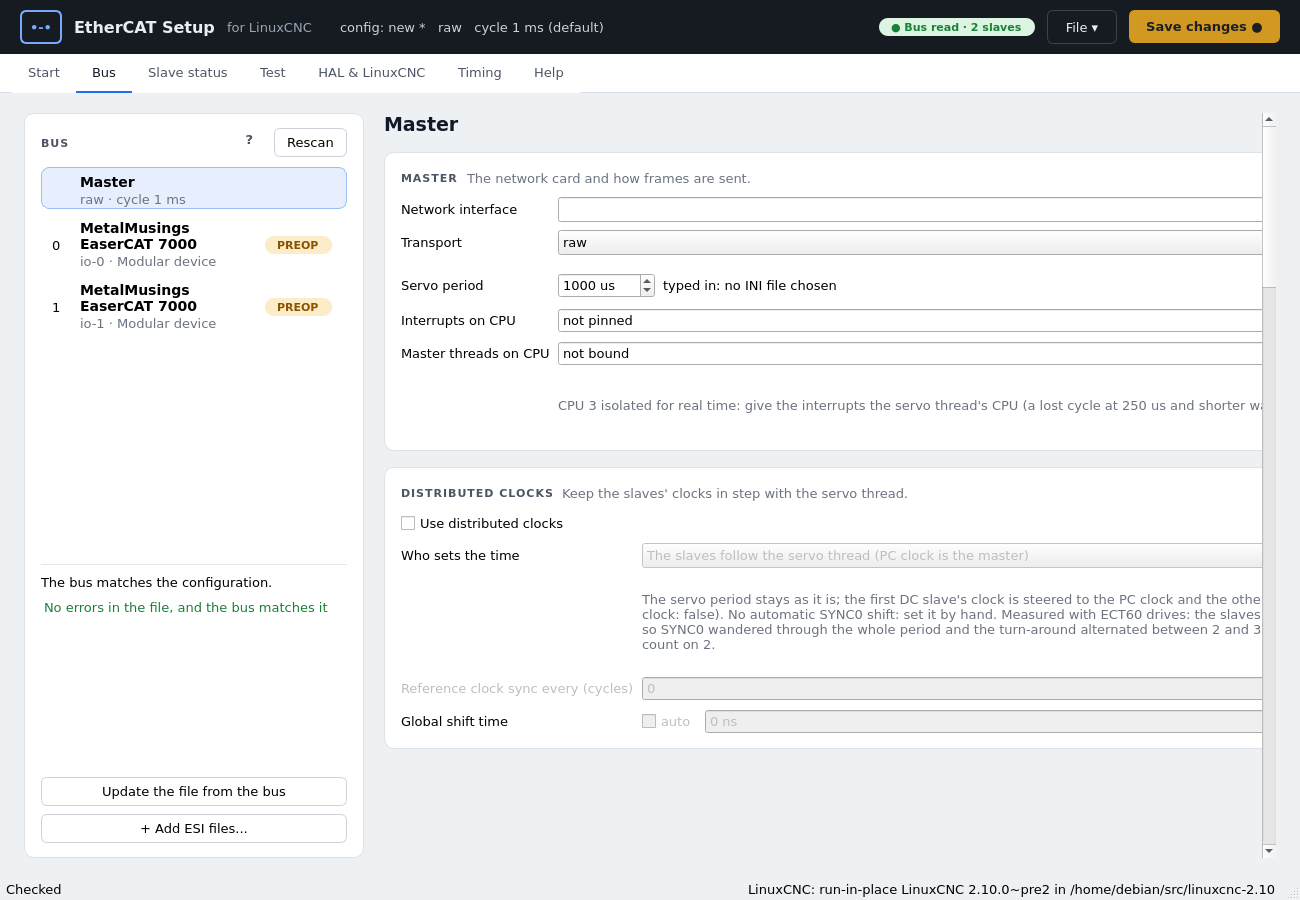
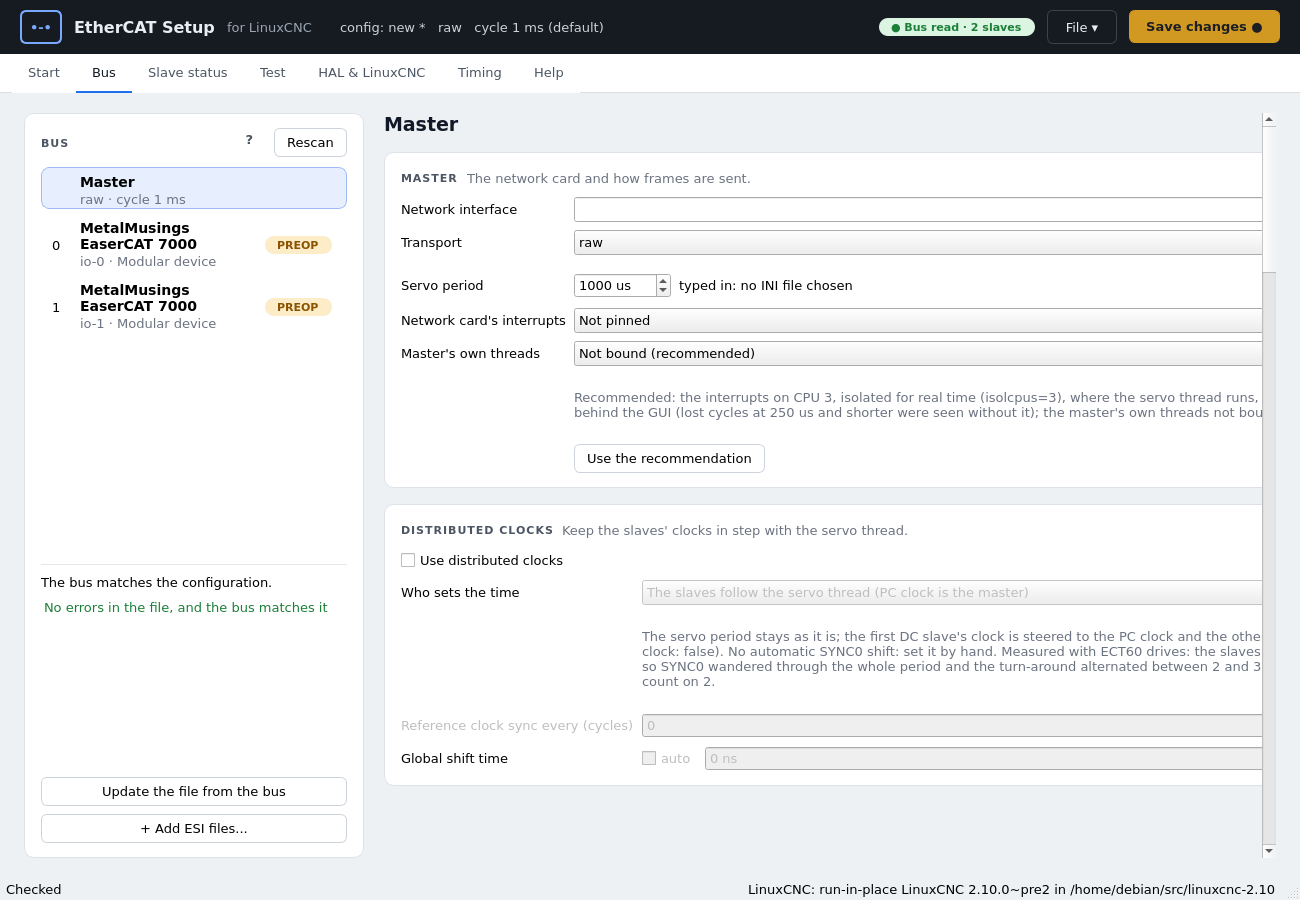
Version 0.25
Docs looked over for the release (the README's EtherCAT Setup row, the
equipment list, pdoedit's message without the removed box, F1 on All pins
and Status word). The switch rows' delayed redraw is a bound method of the
page (a lambda outliving a closed window ended the test run), the CPU
recommendation and its button on rows of their own (the button was pushed
out of the window). Screenshots retaken. 913 Python tests in one process
(also without PyQt5), C on 2.10 and 2.9.

diff --git a/ecatsetup/gui.py b/ecatsetup/gui.py
@@ -852,13 +852,16 @@ class MasterView(QWidget):
                             "cycle: leave them not bound, off the real-time CPU. master: cpu")
         self.cpu.valueChanged.connect(self.edited)
         form.addRow("Master's own threads", self.cpu)
-        hint = QHBoxLayout()
+        # the text and the button on rows of their own: side by side the text
+        # did not wrap and pushed the button out of the window
         self.cpu_hint = label("", "hint", wrap=True)
-        hint.addWidget(self.cpu_hint, 1)
+        form.addRow("", self.cpu_hint)
+        use = QHBoxLayout()
         self.cpu_use = QPushButton("Use the recommendation")
         self.cpu_use.clicked.connect(self.use_cpu_advice)
-        hint.addWidget(self.cpu_use)
-        form.addRow("", hint)
+        use.addWidget(self.cpu_use)
+        use.addStretch(1)
+        form.addRow("", use)
         self.fill_cpus()
         card.add(form)
         lay.addWidget(card)
@@ -2395,21 +2398,26 @@ class SlaveView(QWidget):
                 return None
         return read
 
+    def _homing_again(self):
+        s = self.win.session.slave(self.position)
+        if s is not None:
+            self.show_homing(s)
+
     def input_row_changed(self, kind, name, choice):
         s = self.win.session.slave(self.position)
         if s is None:
             return
         read = self._drive_read()
-        # the rows are made again after this call: not while their box sends it
-        again = lambda: self.show_homing(self.win.session.slave(self.position))  # noqa: E731
+        # the rows are made again after this call, not while their box sends it;
+        # a bound method of this page: not called once the page is gone
         try:
             notes = switches.assign(s, kind, name, choice, read)
         except switches.SetupError as e:
             self.win.status("%s: %s" % (switches.TEXT[kind], e))
-            QTimer.singleShot(0, again)
+            QTimer.singleShot(0, self._homing_again)
             return
         self.show_settings(s)
-        QTimer.singleShot(0, again)
+        QTimer.singleShot(0, self._homing_again)
         self.win.changed()
         self.win.status("%s: %s%s" % (switches.TEXT[kind][0].upper() + switches.TEXT[kind][1:],
                                       "on %s" % name if name else "no input",

diff --git a/ecatsetup/pdoedit.py b/ecatsetup/pdoedit.py
@@ -17,9 +17,9 @@ class EditError(ValueError):
 
 def _writable(slave):
     if slave.get("configure-pdos", True) is False:
-        raise EditError("the PDOs are not written to this slave (Write the PDO mapping to the slave is "
-                        "off): the slave's own mapping is used, so a change here does nothing on the "
-                        "slave. Turn it on to change the mapping")
+        raise EditError("the PDOs are not written to this slave: its own mapping is used (chosen in "
+                        "the PDO boxes), so a change here does nothing on the slave. Choose a PDO in "
+                        "the PDO boxes to write the mapping again")
 
 
 def _pdos(slave, direction):

diff --git a/ecatsetup/helpdocs.py b/ecatsetup/helpdocs.py
@@ -197,6 +197,8 @@ TOPICS = {
     "Messages from the master": ("ecatsetup.md", "step-2-why-it-is-not-in-op"),
     "Drive state (CiA 402)": ("ecatsetup.md", "cia-402-drives"),
     "I/O test": ("ecatsetup.md", "io"),
+    "All pins": ("ecatsetup.md", "io"),
+    "Status word": ("ecatsetup.md", "cia-402-drives"),
     "Switches": ("ecatsetup.md", "switches"),
     "Inputs (from the slave)": ("ecatsetup.md", "io"),
     "Outputs (to the slave)": ("ecatsetup.md", "io"),

diff --git a/README.md b/README.md
@@ -32,7 +32,7 @@ ecat has two parts:
 | | |
 |---|---|
 | [Getting started](docs/getting-started.md) | What gets installed, and how to try ecat step by step without disturbing your setup, from the safest. Start here. |
-| [EtherCAT Setup](docs/ecatsetup.md) | The window, bringing up a new slave (with how-tos for a spindle encoder, a Modbus VFD on a serial terminal and a device's web page over EoE), the test mode (with [tuning a servo drive, step by step](docs/ecatsetup.md#tuning-a-servo-drive-step-by-step)), writing into LinuxCNC, [what the slaves give in LinuxCNC](docs/ecatsetup.md#what-the-slaves-give-in-linuxcnc) (the component, how short a servo period can be, the pins and behaviour of drives, encoder and serial channels, analog and stepper terminals and modular devices), the computer's timing, the event log and report, and quirk files. |
+| [EtherCAT Setup](docs/ecatsetup.md) | The window, bringing up a new slave (with how-tos for a spindle encoder, a Modbus VFD on a serial terminal and a device's web page over EoE), the test mode (with [tuning a servo drive, step by step](docs/ecatsetup.md#tuning-a-servo-drive-step-by-step) and a test of home and limit switches), writing into LinuxCNC (with [moving a joint from LinuxCNC's homing to the drive's](docs/ecatsetup.md#from-linuxcncs-homing-to-the-drives)), [what the slaves give in LinuxCNC](docs/ecatsetup.md#what-the-slaves-give-in-linuxcnc) (the component, how short a servo period can be, the pins and behaviour of drives, encoder and serial channels, analog and stepper terminals and modular devices), the computer's timing, the event log and report, and quirk files. |
 | [Reference](docs/reference.md) | The `ethercat.yaml` file format (which you do not need to edit: the window writes it), loading the component by hand, every command-line option, and the format of quirk files. |
 | [Developing ecat](docs/development.md) | Building and testing, the design draft, what the prototype found on a real bus, the plan for fault tests at a machine, how to get at devices we do not have, and the design of the real-time check. |
 

diff --git a/docs/development.md b/docs/development.md
@@ -2521,6 +2521,7 @@ sends a capture or report (way 1 below), or the device comes here.
 | The Response card's *Look for settings* / *Try it* on another drive than the ECT60 | the ECT60 (filter, Kp, Ki) at the machine; dictionary search unit-tested | any other CiA 402 drive, ideally a real servo (A6: the quirk file's `tuning:` is not filled in) |
 | `cia402.axes`: several axes in one slave | unit tests, objects 0x800 apart | a two-axis drive (ECT60x2, ECR60x2) or an EL72xx with channels |
 | Serial channels (`serial:`, EL6021 / EL6022) on a Beckhoff terminal | the EL6021 protocol emulated by the EaserCAT 3000 over a real wire, 2400-115200 baud, mb2hal | an EL6021 or EL6022 (and, for RS-485, a Modbus device on it) |
+| Home and limit switch inputs set from the homing card (quirk `homing: inputs`) on the A6-EC and the GeRui EC1 | the ECT60 (IN5, normally open) at the plasma cutter; A6 and EC1 data from their manuals, unit-tested | an A6-EC and an EC1 drive with a switch on an input |
 | EoE on a bought device, and two EoE slaves on one bus | one EaserCAT 3000 with our own SOES/lwIP firmware, in LinuxCNC | a device with a web page over EoE (a drive, an IO-Link master, a gateway), and a second EoE slave |
 | Analog terminals (EL3xxx, EL4xxx) | the proposal (scaling from the range in the name, status bits) | an analog input and an output terminal |
 | Stepper and DC motor terminals (EL7041, EL70x1, EL7342) | a quirk file for the EL7041; `generic` slaves | an EL7041 (or EL70x1 / EL7342) with a motor |
